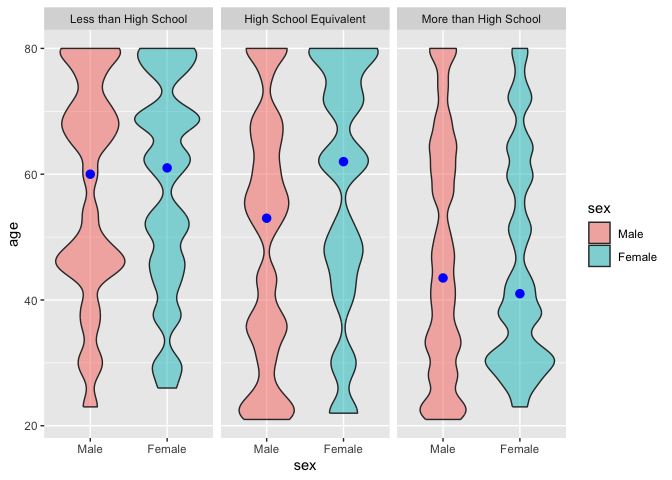
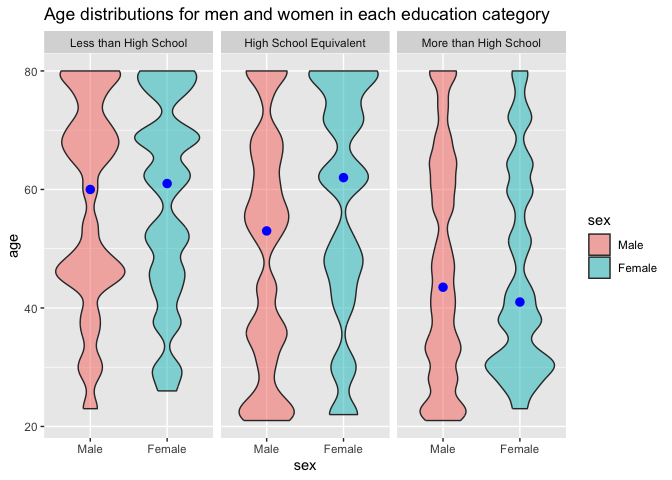
Modification: Add plot titles

diff --git a/p8105_hw3_yx2954.md b/p8105_hw3_yx2954.md
@@ -258,12 +258,13 @@ the mean.
 ### Geom_hex
 
 ``` r
-hex_p = ggplot(ny_noaa_clean, aes(x = tmin_c, y = tmax_c)) + 
+tmin_max_p = ggplot(ny_noaa_clean, aes(x = tmin_c, y = tmax_c)) + 
   geom_hex() + 
   labs(x = "t_min (°C)",
-       y = "t_max (°C)")
+       y = "t_max (°C)",
+       title = "tmax vs tmin")
 
-hex_p
+tmin_max_p
 ```
 
     ## Warning: Removed 1063998 rows containing non-finite outside the scale range
@@ -280,7 +281,7 @@ ridge_p = ny_noaa_clean |>
   geom_density_ridges() +
   labs(
     x = "Snowfall (mm)",
-    y = "Frequency",
+    y = "Year",
     title = "Distribution of Snowfall Values Greater Than 0 and Less Than 100 by Year"
   ) +
   scale_y_discrete(expand = expansion(add = c(1, 2)))
@@ -381,7 +382,10 @@ age_dist_p = final_df |>
   ggplot(aes(x = sex, y = age)) + 
   geom_violin(aes(fill = sex), alpha = .5) + 
   stat_summary(fun = "median", color = "blue") +
-  facet_grid(. ~ education)
+  facet_grid(. ~ education) +
+  labs(
+    title = "Age distributions for men and women in each education category"
+  )
 
 age_dist_p
 ```
